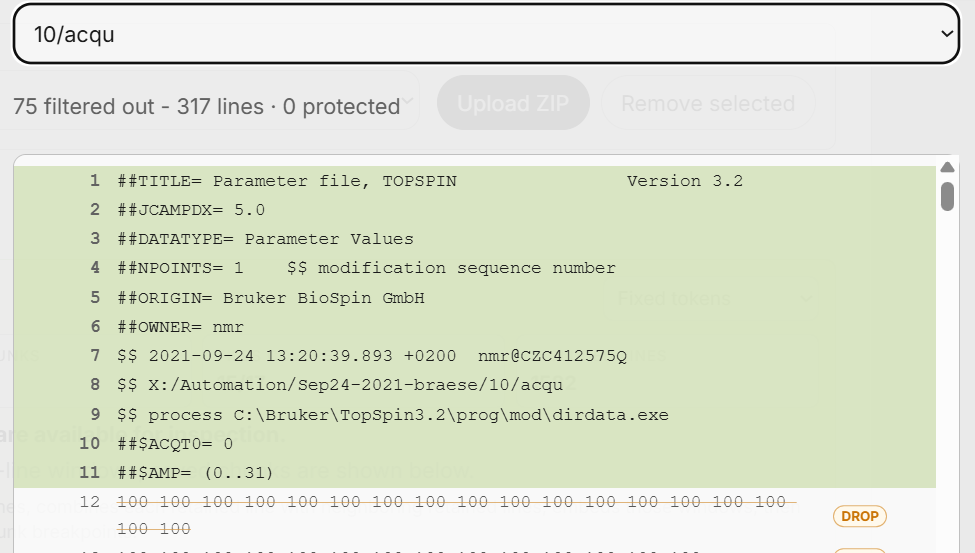
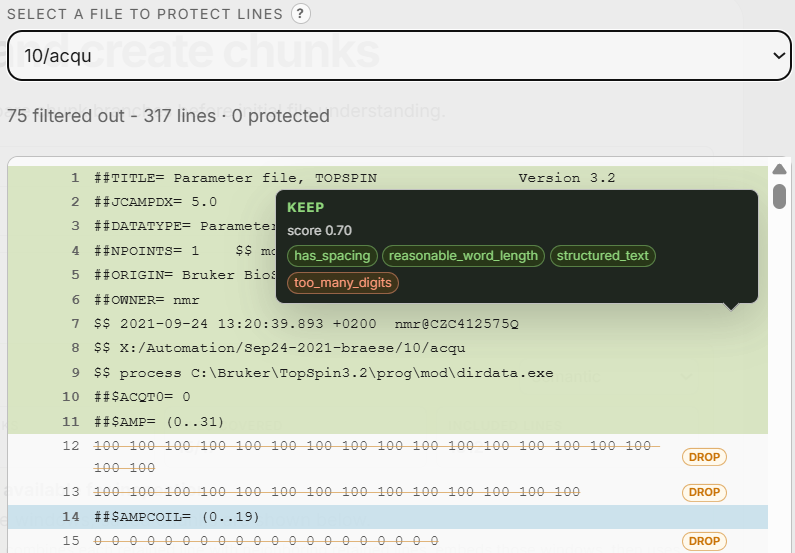
feat: enhance text-quality gate functionality and update corresponding figure description

diff --git a/docs/thesis/sections/04_methodical_approach.tex b/docs/thesis/sections/04_methodical_approach.tex
@@ -94,34 +94,48 @@ The workflow must therefore handle the separation of metadata from primary data,
 
 The ingestion stage expands the uploaded archive and records the contained files as package resources.
 Nested archives are expanded recursively.
-This preserves the original package structure while making individual files addressable by the later workflow stages.
+This preserves the original package structure while making individual files addressable by later workflow stages.
 Each file is then handled according to its accessible content type.
-Plain files are decoded after character-set detection with \texttt{charset-normalizer} \cite{charsetNormalizerDocs}.
-Tables are converted into textual rows.
-PDF files are converted by text extraction.
+Plain text files are decoded after character-encoding detection with the \texttt{charset-normalizer} library \cite{charsetNormalizerDocs}.
+Tables are linearized into textual rows.
+PDF files are processed by text extraction.
 Images and unsupported binary files are kept as resources, but they are not treated as textual evidence.
 
-After text extraction, the workflow applies a text-quality gate at line level.
-This gate removes lines that are empty, too short, dominated by control characters, repeated characters, numeric arrays, dense hexadecimal-like values, base64-like strings, or high-entropy text without spacing.
-It keeps lines that contain words, sufficient alphabetic content, spacing, or recognizable structured text.
-Structured metadata lines are important for instrument exports and must not be removed only because they contain many symbols.
-\Cref{fig:text-quality-gate} shows the corresponding preview in the workflow interface for an acquisition-parameter file.
-The preview displays the selected file, the number of source lines, and the number of lines removed by the gate.
-Lines kept for downstream chunking are highlighted as readable parameter records.
-Numeric array lines are marked as dropped.
-The gate therefore denoises the file without reducing the archive to ordinary prose.
+After text extraction, the workflow applies a line-level text-quality gate.
+The gate classifies each extracted line as either kept or dropped using deterministic heuristic rules.
+Empty lines, one-character lines, lines with many control characters, repeated-character noise, and dense numeric arrays are removed directly.
+The numeric-array rule is applied before scoring so that long lists of signal or frequency values are not passed to later model stages.
+
+All remaining lines are scored from textual and structural features.
+Positive evidence is assigned to lines that contain multiple words, sufficient alphabetic content, whitespace, reasonable word length, or recognizable structured metadata syntax.
+The latter includes short key-value records, assignment-style records, headings, and bullet-like entries.
+This structured-text signal is important for instrument files, because acquisition and processing metadata are often stored as compact parameter records rather than prose.
+
+The score is reduced for lines dominated by digits or symbols, dense strings without whitespace, very long uninterrupted tokens, and hexadecimal-like values.
+These features are detected with regular-expression patterns and character-level statistics and are translated into additive score contributions.
+Textual and structured metadata features add to the score, while noise-like features subtract from it.
+A line is kept only if this final score reaches the configured threshold.
+This design removes low-information technical noise while preserving readable metadata records, including Bruker-style parameter lines that contain symbols, numbers, or key-value syntax.
+
+\Cref{fig:text-quality-gate} shows the corresponding preview in the workflow interface for the Bruker acquisition-parameter file \texttt{10/acqu}.
+The preview reports the selected file, the total number of source lines, the number of filtered lines, and the number of protected lines.
+Each line is displayed with its gate decision.
+Kept lines are shown as readable parameter records, and the decision tooltip exposes the final score together with the feature labels that contributed to it.
+In the example, the header records and Bruker parameter assignments are kept even though they contain symbols and numeric values.
+By contrast, dense numeric array lines are marked as \texttt{DROP}.
+The figure therefore illustrates that the gate removes low-information numeric content while preserving structured acquisition metadata for downstream chunking.
 
 \begin{figure}[H]
-    \centering
-    \includegraphics[width=0.8\textwidth]{figures/text-quality-gate.png}
-    \caption{Workflow preview of the text-quality gate for a Bruker acquisition-parameter file.}
-    \label{fig:text-quality-gate}
+\centering
+\includegraphics[width=0.8\textwidth]{figures/text-quality-gate.png}
+\caption{Workflow preview of the text-quality gate for the Bruker acquisition-parameter file \texttt{10/acqu}. Structured parameter records are kept with score-based feature labels, while dense numeric array lines are dropped.}
+\label{fig:text-quality-gate}
 \end{figure}
 
 \section{Dataset-Level Overview}
 \label{sec:dataset_level_overview}
 
-The workflow creates a dataset-level overview before chunk evidence is extracted.
+After the preprocessing steps, the workflow creates a dataset-level overview before chunk evidence is extracted.
 This stage consists of several smaller orientation steps.
 First, the program creates bounded previews from text-accessible files.
 Small files are represented as complete text.
